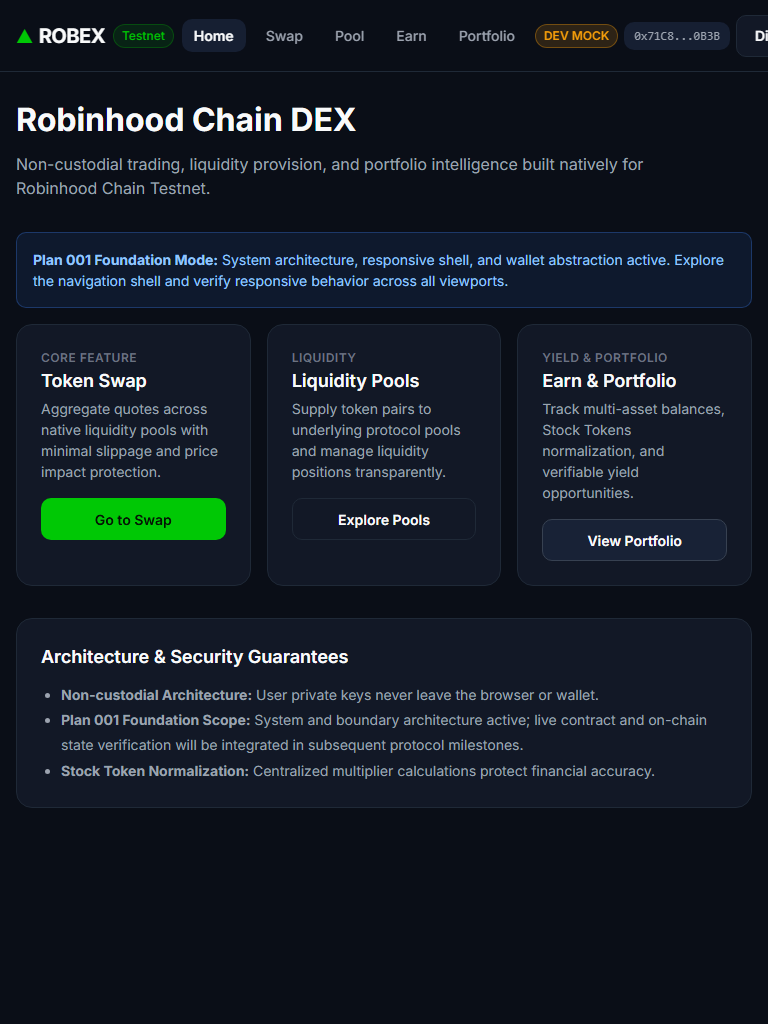
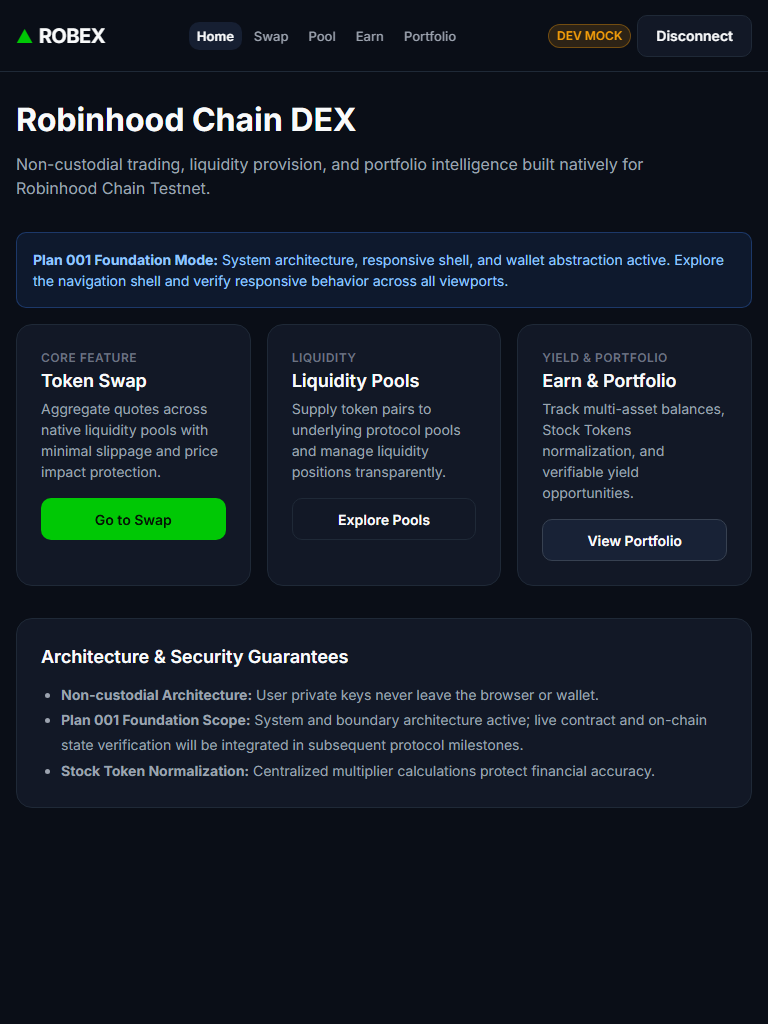
fix(plan-001): resolve tablet header overflow at 768px and return HTTP 400 on chainId rejection

Changed region(s): [[0.1562, 0.0, 0.6562, 0.0625], [0.6875, 0.0, 1.0, 0.0625]]

diff --git a/apps/web/src/styles/global.css b/apps/web/src/styles/global.css
@@ -184,18 +184,31 @@ button {
   min-height: 32px;
 }
 
-@media (max-width: 480px) {
+@media (max-width: 900px) {
   .header-inner {
-    padding: 0 12px;
+    padding: 0 16px;
   }
   .header-testnet-badge {
     display: none;
   }
+  .wallet-address-pill {
+    display: none;
+  }
+  .desktop-nav {
+    gap: 4px;
+  }
+  .nav-link {
+    padding: 6px 8px;
+    font-size: 13px;
+  }
+}
+
+@media (max-width: 480px) {
+  .header-inner {
+    padding: 0 12px;
+  }
   .logo-text {
     font-size: 17px;
-  }
-  .wallet-address-pill {
-    display: none; /* Hide address string on narrow mobile to guarantee zero overflow */
   }
   .btn-disconnect {
     padding: 5px 10px;

diff --git a/apps/api/src/services/quote.service.ts b/apps/api/src/services/quote.service.ts
@@ -17,7 +17,7 @@ export class QuoteService {
     // Rejects non-testnet and mainnet chain requests completely.
     if (!activeNetwork.isTestnet || request.chainId !== activeNetwork.chainId) {
       throw new RobexAppError(
-        'NETWORK_ERROR',
+        'QUOTE_ERROR',
         `Quote requests in Plan 001 are strictly restricted to active testnet (Chain ID ${activeNetwork.chainId}). Chain ID ${request.chainId} is rejected.`,
         { chainId: request.chainId, activeChainId: activeNetwork.chainId }
       );

diff --git a/docs/qa/evidence/plan-001-verification.md b/docs/qa/evidence/plan-001-verification.md
@@ -146,16 +146,21 @@ ESLint checks passed across all workspaces with 0 errors and 0 warnings.
 - Verified simulated quote output no longer fabricates routing calldata or gas estimates.
 
 ### Finding 6: Reject Mainnet & Non-Active Chain Quotes (MEDIUM)
-- Added strict chain validation guards in `QuoteService.getQuote()`.
-- Rejects mainnet requests (`chainId === 1`) and any chainId differing from active Robinhood Testnet (`46630`).
+- Added strict chain validation guards in `QuoteService.getQuote()` throwing `QUOTE_ERROR` (mapped to HTTP 400 Bad Request).
+- Rejects mainnet requests (`chainId === 1`, HTTP 400) and any chainId differing from active Robinhood Testnet (`46630`, HTTP 400).
 
 ### Finding 7: Validate Slippage Boundaries (MEDIUM)
-- Validates slippage parameter in `QuoteService`: ensures finite number, `0 <= slippage <= 50%`.
+- Validates slippage parameter in `QuoteService`: ensures finite number, `0 <= slippage <= 50%` (HTTP 400 Bad Request).
 - Added automated boundary unit tests in `apps/api/test/quote-service.test.ts`.
 
 ### Finding 8: Fix Header Overflow on Mobile/Tablet Connected (MEDIUM)
-- Updated `Header.tsx` and `global.css` with responsive breakpoint rules for connected state.
-- On screen widths `< 400px`, the raw hex address is hidden while keeping the brand logo, `[DEV MOCK]` badge, and `Disconnect` button accessible without text clipping or horizontal scrolling.
+- Updated `Header.tsx` and `global.css` with responsive breakpoint rules for connected state across both tablet (< 900px) and mobile (< 480px).
+- Tablet (768px): hides `.header-testnet-badge` and `.wallet-address-pill`, adjusts `.desktop-nav` gap and link padding.
+- Mobile (375px): hides `.header-testnet-badge` and `.wallet-address-pill`, optimizes logo and disconnect button size.
+- Verified via Playwright DOM runtime measurement:
+  - `desktop-wide-connected (1440x900)`: innerWidth = 1440, scrollWidth = 1440 (0px overflow)
+  - `tablet-connected (768x1024)`: innerWidth = 768, scrollWidth = 768 (0px overflow)
+  - `mobile-connected (375x812)`: innerWidth = 375, scrollWidth = 375 (0px overflow)
 - Re-captured responsive screenshots for all viewports in connected state.
 
 ### Finding 9: Real Linter Integration (MEDIUM)
